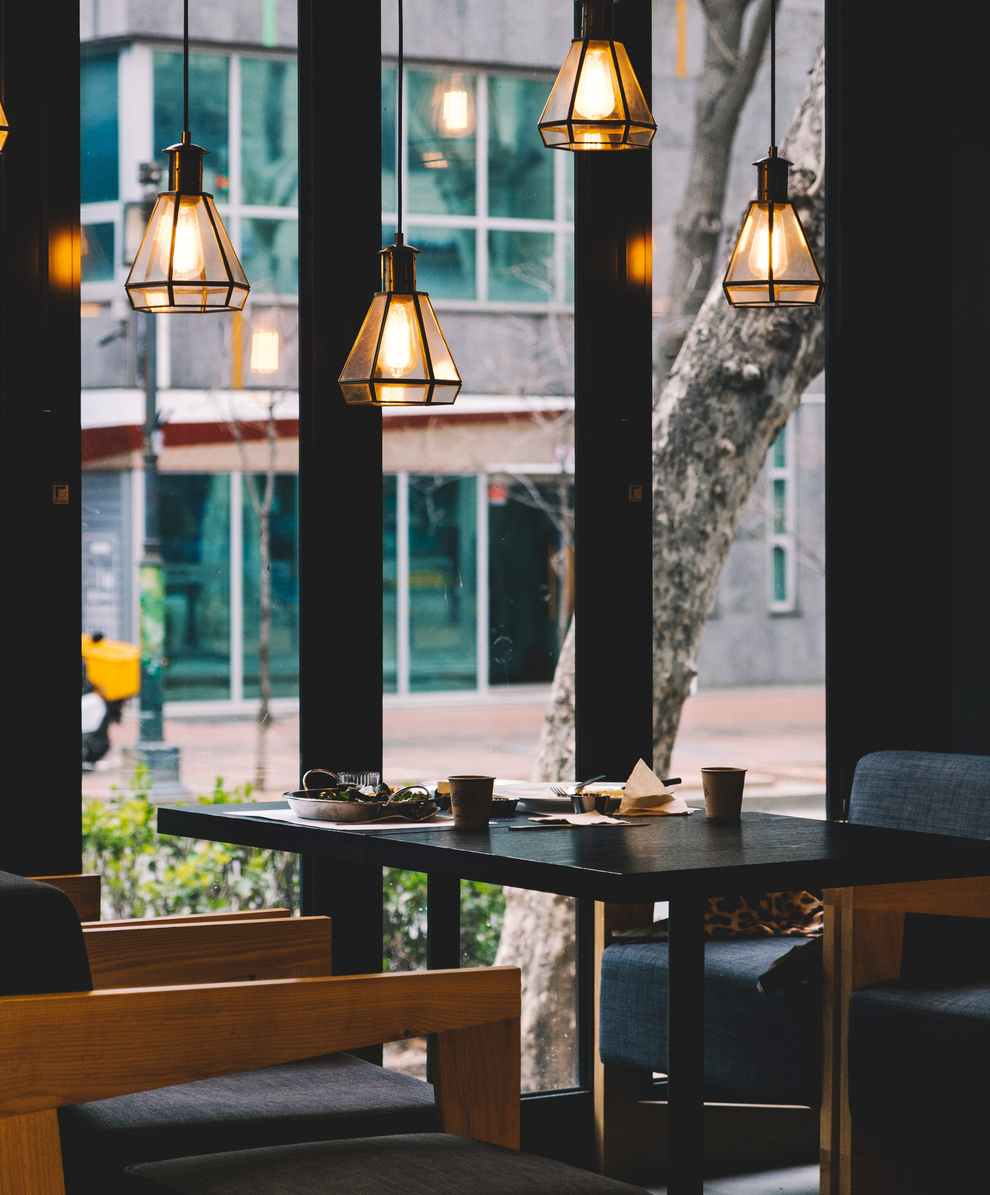
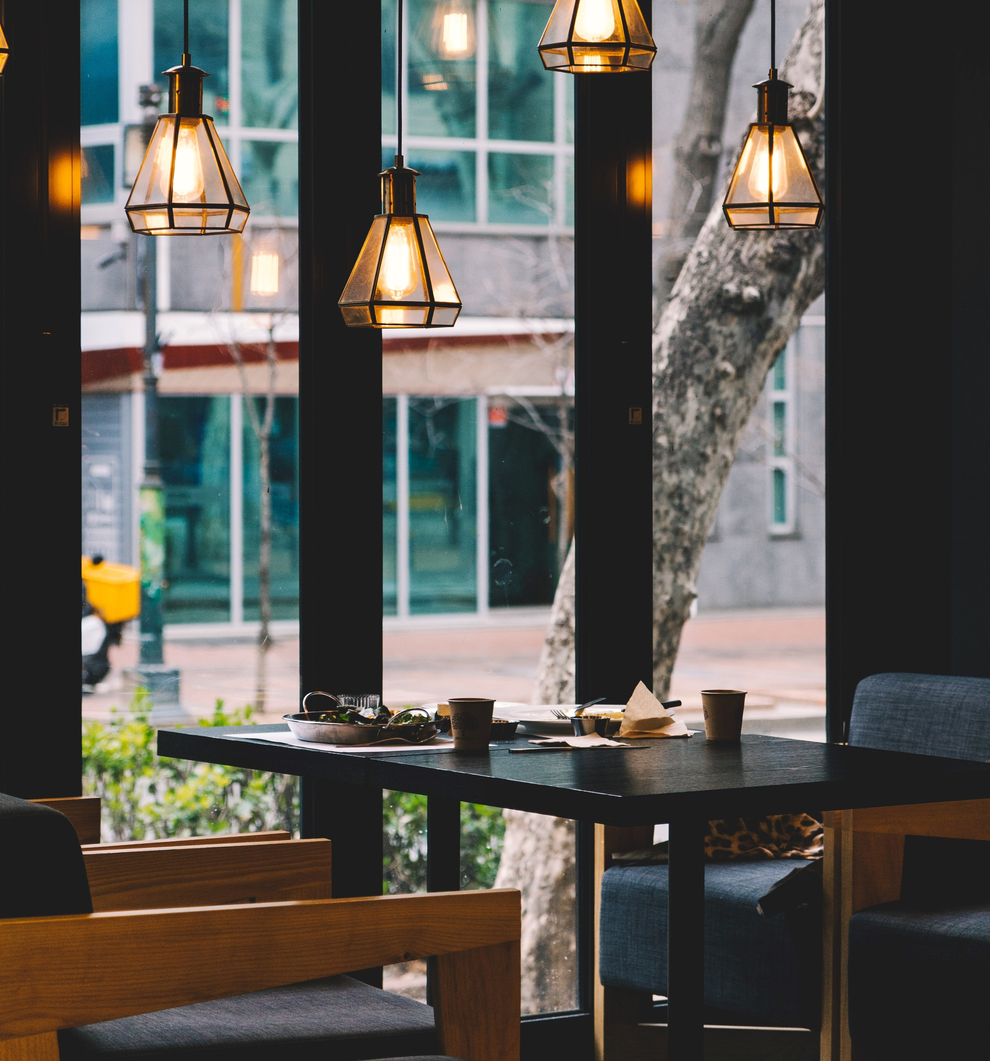
added sign up page

diff --git a/src/auth/SignUp.js b/src/auth/SignUp.js
@@ -1,12 +1,12 @@
 import { Form, Button, Container, Row, Col} from "react-bootstrap";
-import img from "./login2.jpg";
+import img from "./login4.jpg";
 import "../css/auth.css";
 import userIcon from "./user.png";
 import Aos from "aos";
 import "aos/dist/aos.css";
 import { useEffect } from 'react';
 
-const LogIn = () => {
+const SignUp = () => {
     useEffect(() => {
         Aos.init({ duration: 1500 });
     }, []);
@@ -22,23 +22,26 @@ const LogIn = () => {
                 </Col>
                 <Col md={6} sm={12}>
                 <div className="justify-content-md-center">
-                <Form> 
+                <Form>
                     <div data-aos="fade-up" className="fade">
                         <div className="text-center">
                             <img className="user" src={userIcon} />
                         </div>
+                        <Form.Group className="mb-3">
+                            <Form.Control type="text" placeholder="Enter Name" />
+                        </Form.Group>
+                        <Form.Group className="mb-3">
+                            <Form.Control type="text" placeholder="Enter Mobile Number" />
+                        </Form.Group>
                         <Form.Group className="mb-3" controlId="formBasicEmail">
                             <Form.Control type="email" placeholder="Enter email" />
                         </Form.Group>
                         <Form.Group className="mb-3" controlId="formBasicPassword">
                             <Form.Control type="password" placeholder="Password" />
                         </Form.Group>
-                        <Form.Group className="mb-3" controlId="formBasicCheckbox">
-                            <Form.Check type="checkbox" label="Remember me" />
+                        <Form.Group className="mb-3" controlId="formBasicPassword">
+                            <Form.Control type="password" placeholder="Repeat Password" />
                         </Form.Group>
-                        <div className="mb-3">
-                            <a href="#">Forgot password?</a>
-                        </div>
                         <Button variant="primary" type="submit">
                             Submit
                         </Button>
@@ -52,4 +55,4 @@ const LogIn = () => {
     );
 }
 
-export default LogIn;
+export default SignUp;

diff --git a/src/App.js b/src/App.js
@@ -1,8 +1,8 @@
 import './css/index.css';
 import Home from './FrontPage/Home';
 import LogIn from './auth/LogIn';
-
 import { BrowserRouter as Router, Route, Switch } from "react-router-dom";
+import SignUp from './auth/SignUp';
 
 
 function App() {
@@ -15,6 +15,9 @@ function App() {
         </Route>
         <Route path="/LogIn">
           <LogIn />
+        </Route>
+        <Route path="/SignUp">
+          <SignUp />
         </Route>
       </Switch>
     </Router>

diff --git a/src/css/auth.css b/src/css/auth.css
@@ -1,20 +1,25 @@
 .container{
     margin:0;
     padding: 0;
+    max-width: fit-content;
 }
 .col{
     padding: 0;
     /* background-color: rgb(41, 39, 39); */
 }
-.right{
+/* .right{
     margin-top:20%;
     margin-left:40%;
-}
+} */
 .user{
     width: 80px;
     height:80px;
     margin-bottom:2rem;
     /* padding-left: 20px; */
+}
+Form{
+    padding: 100px;
+    padding-top: 50px;
 }
 .form-control{
     width:100%;

diff --git a/src/FrontPage/navbar.js b/src/FrontPage/navbar.js
@@ -7,7 +7,7 @@ const navbar = () => {
             <img class="dinologo" src={dinoLogo} />
             <h1>DinoSpace</h1>
             <div className="links">
-                <a href="#">Sign Up</a>
+                <a href="/SignUp">Sign Up</a>
                 <a href="/LogIn">Sign In</a>
                 <a href="/">Contact Us</a>
             </div>
